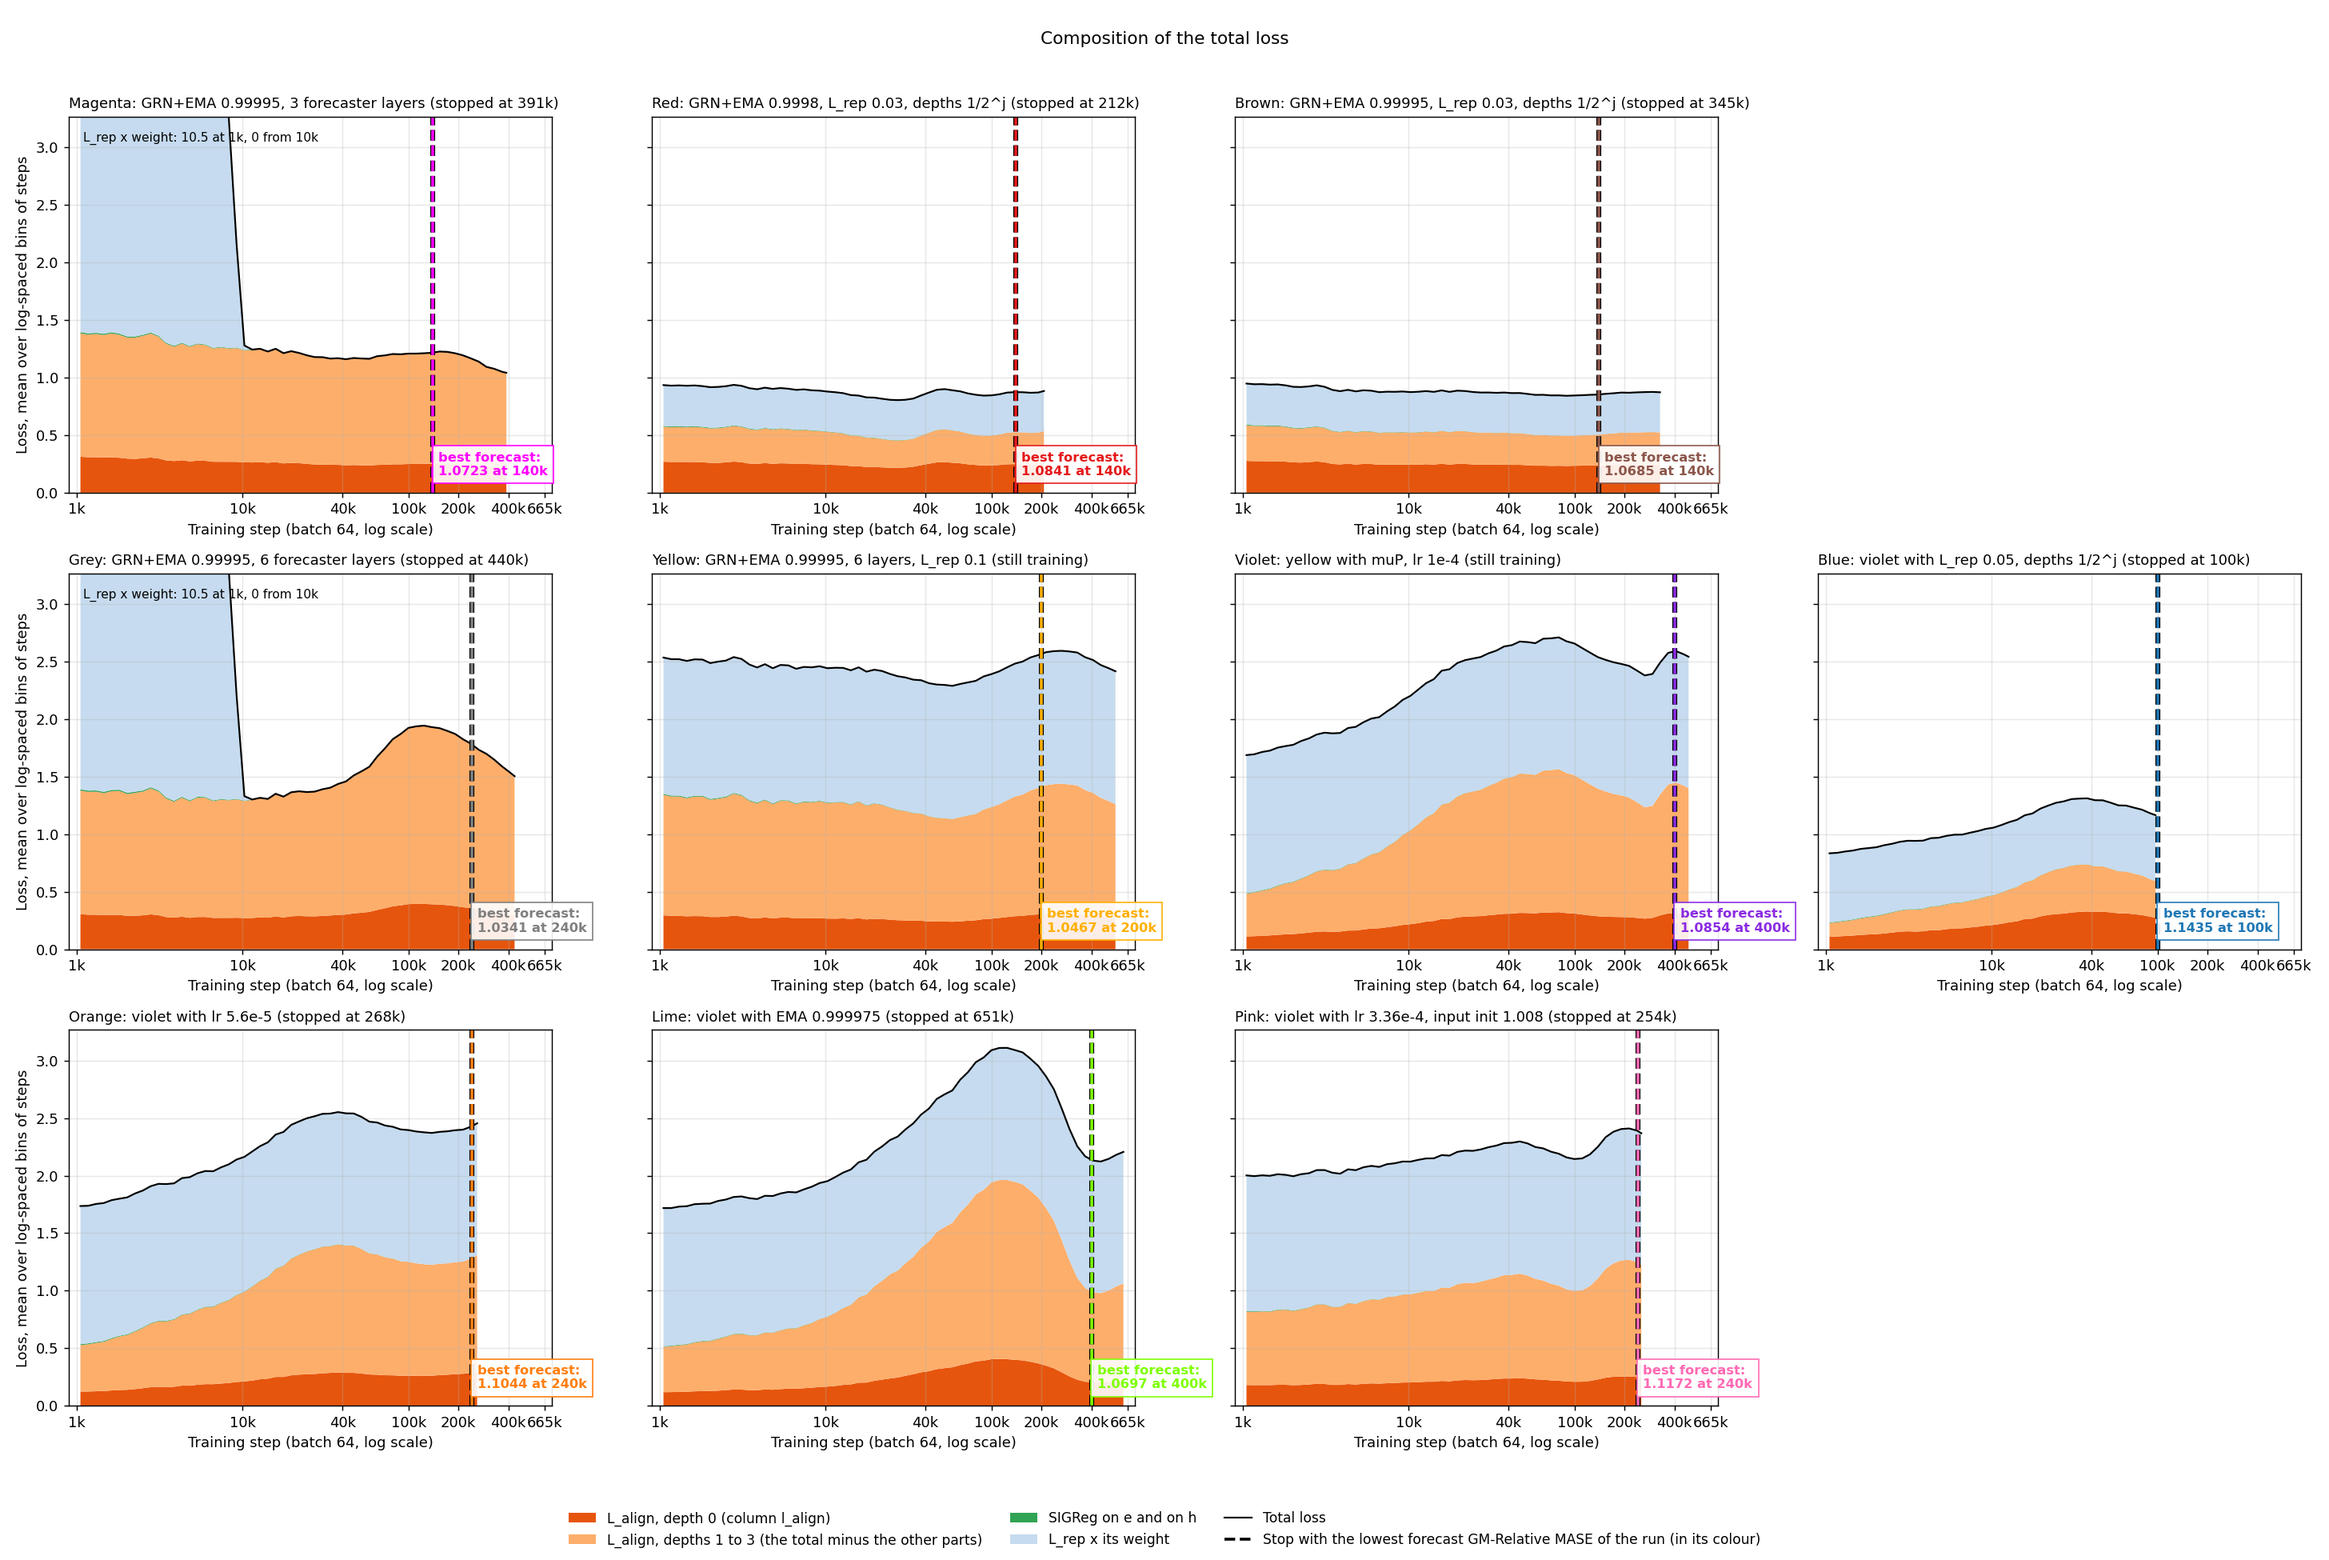
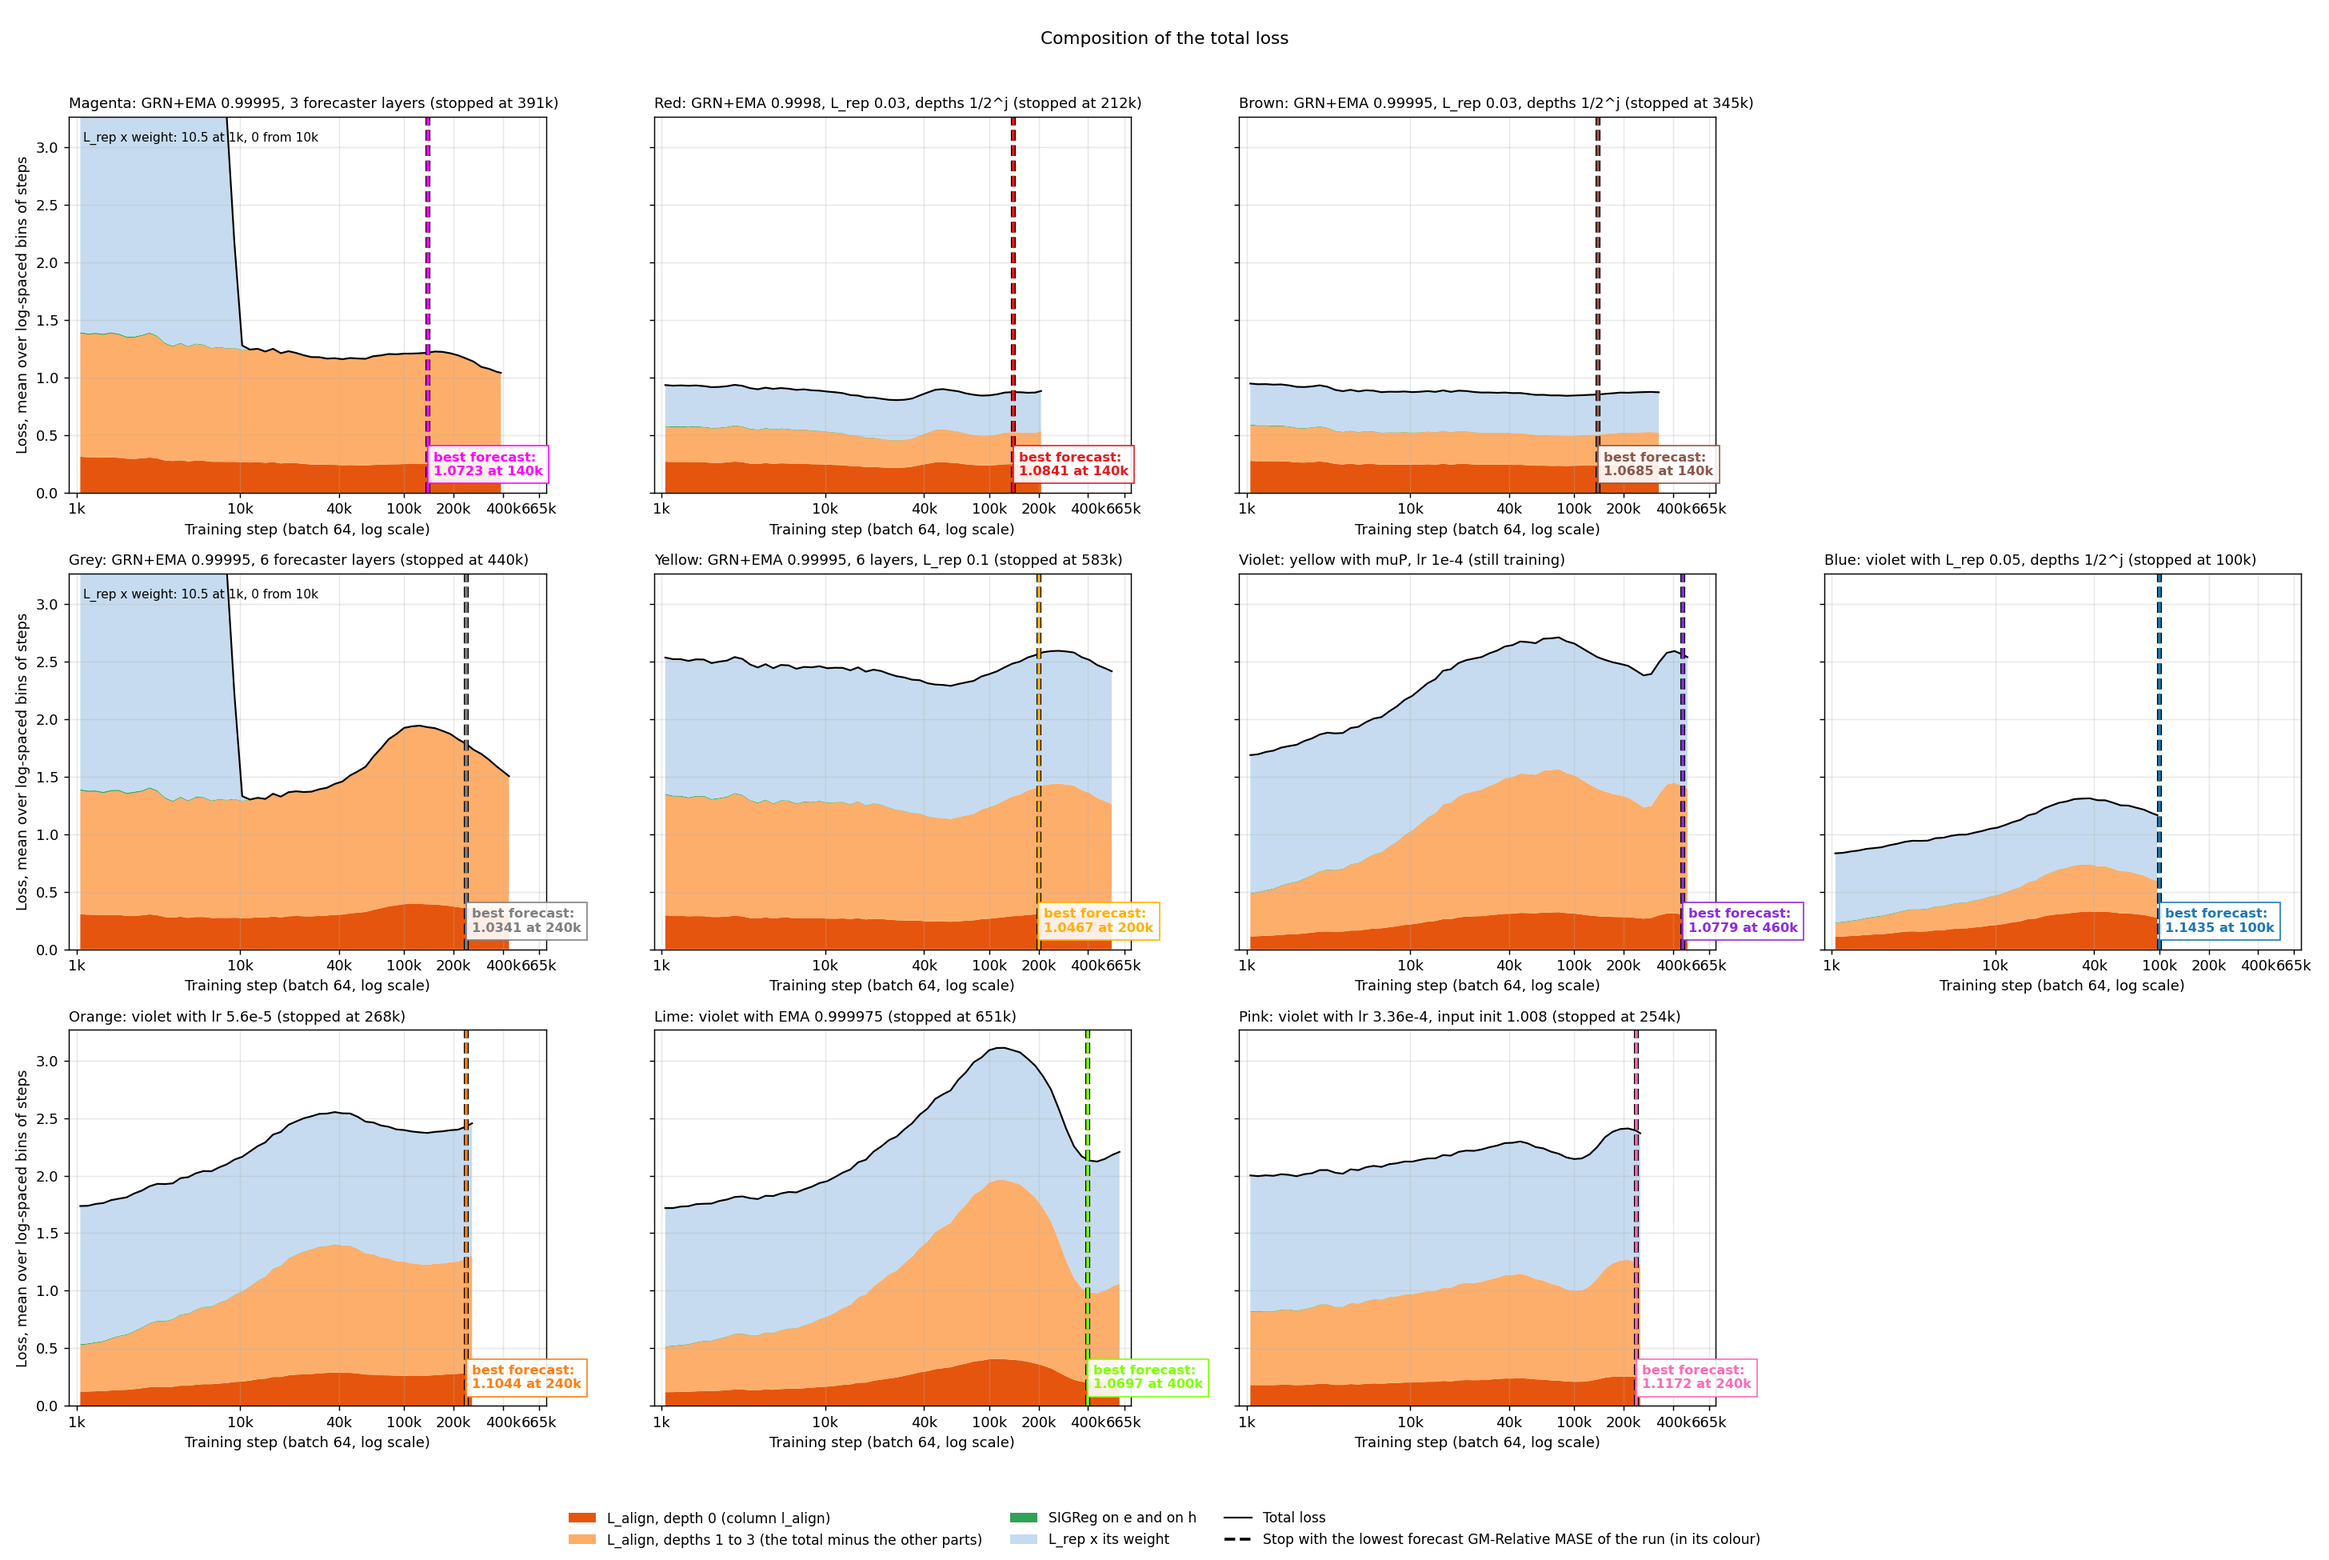
freq_family report: violet's 460k forecast score, its best so far; yellow stopped at 583k (the user)

diff --git a/reports/2026-10-10_frequency_family_head/scripts/plot_loss_composition_099995.py b/reports/2026-10-10_frequency_family_head/scripts/plot_loss_composition_099995.py
@@ -78,7 +78,7 @@ RUNS = {
                                 # the box leg from 580k (11-02): train.py named it r2 again
                                 (RUNS_DIR / "grn_ema099995_f6_rep01/ckpt_box_1102/"
                                  "grn_ema099995_f6_rep01_r2_losses.csv", None)],
-                               "#ffb000", "Yellow: GRN+EMA 0.99995, 6 layers, L_rep 0.1 (still training)"),
+                               "#ffb000", "Yellow: GRN+EMA 0.99995, 6 layers, L_rep 0.1 (stopped at 583k)"),
     "grn_ema099995_f6_rep01_mup": (
         [(RUNS_DIR / "grn_ema099995_f6_rep01_mup/ckpt/grn_ema099995_f6_rep01_mup_losses.csv",
           180_000),

diff --git a/reports/2026-10-10_frequency_family_head/scripts/plot_green_scores.py b/reports/2026-10-10_frequency_family_head/scripts/plot_green_scores.py
@@ -98,7 +98,7 @@ RUNS = [
      "stopped at 391k", GRN_EMA099995_COLOUR, "8"),
     (GRN_EMA099995_F6, r"$\mathbf{GRY}$  MAG with 6 forecaster layers (the size of MPE), "
      "stopped at 440k", GRN_EMA099995_F6_COLOUR, "H"),
-    (GRN_EMA099995_F6_REP01, r"$\mathbf{YEL}$  GRY with L_rep 0.1, to 665k",
+    (GRN_EMA099995_F6_REP01, r"$\mathbf{YEL}$  GRY with L_rep 0.1, stopped at 583k",
      GRN_EMA099995_F6_REP01_COLOUR, "^"),
     (GRN_EMA099995_F6_REP01_MUP, r"$\mathbf{VIO}$  YEL with muP, lr 1e-4, to 665k",
      GRN_EMA099995_F6_REP01_MUP_COLOUR, "p"),
